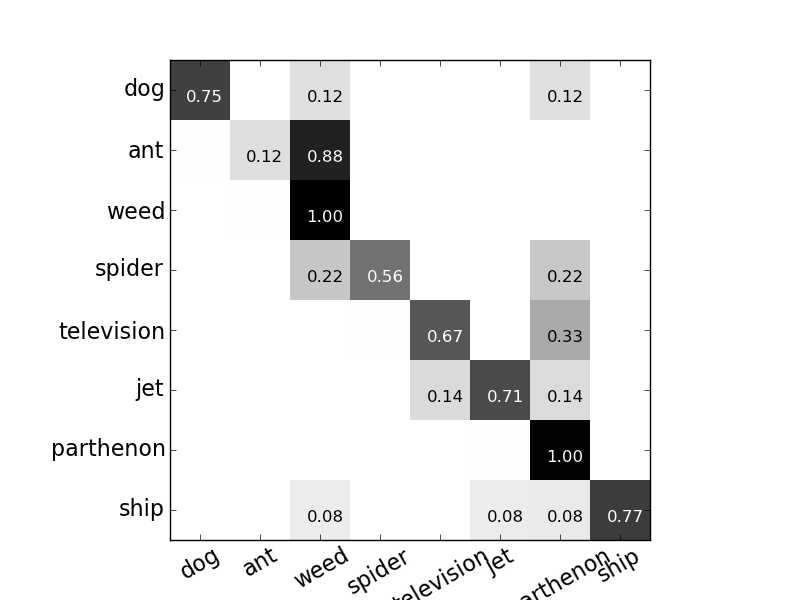
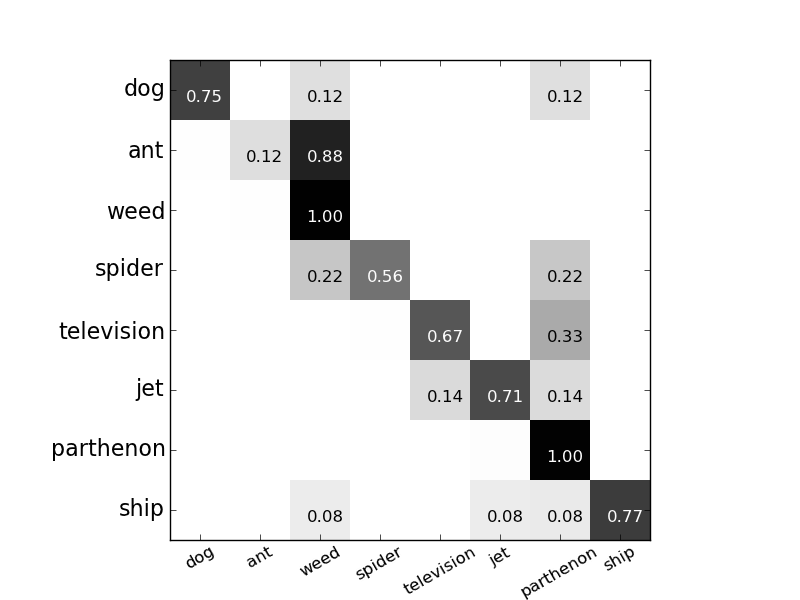
fixed clipping of names in confmatrix

diff --git a/plotting/main.py b/plotting/main.py
@@ -112,7 +112,7 @@ class EvalSet:
           else:
             text(j-.2, i+.2, "%.2f"%c, color='white', fontsize=12)
     #cb = fig.colorbar(res)
-    xticks(arange(0, self.num_models), self.model_names, rotation=30, size=16)
+    xticks(arange(0, self.num_models), self.model_names, rotation=30)
     yticks(arange(0, self.num_models), self.model_names, size=16)
 
     self.savefig_wrap([feature],'confmat')
@@ -211,7 +211,7 @@ def main():
   a combined PR curve evaluation.
   """
   do_plot = True 
-  do_plot = False 
+  #do_plot = False 
 
   # Set the basic things about this run
   # TODO: accept these from the command line
